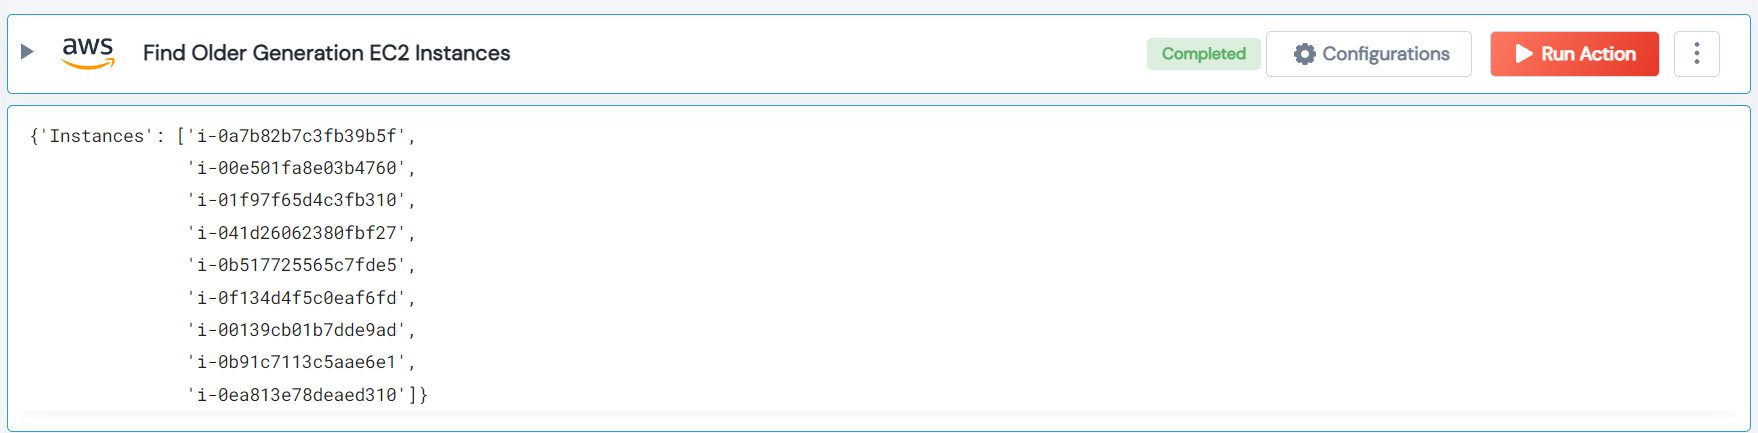
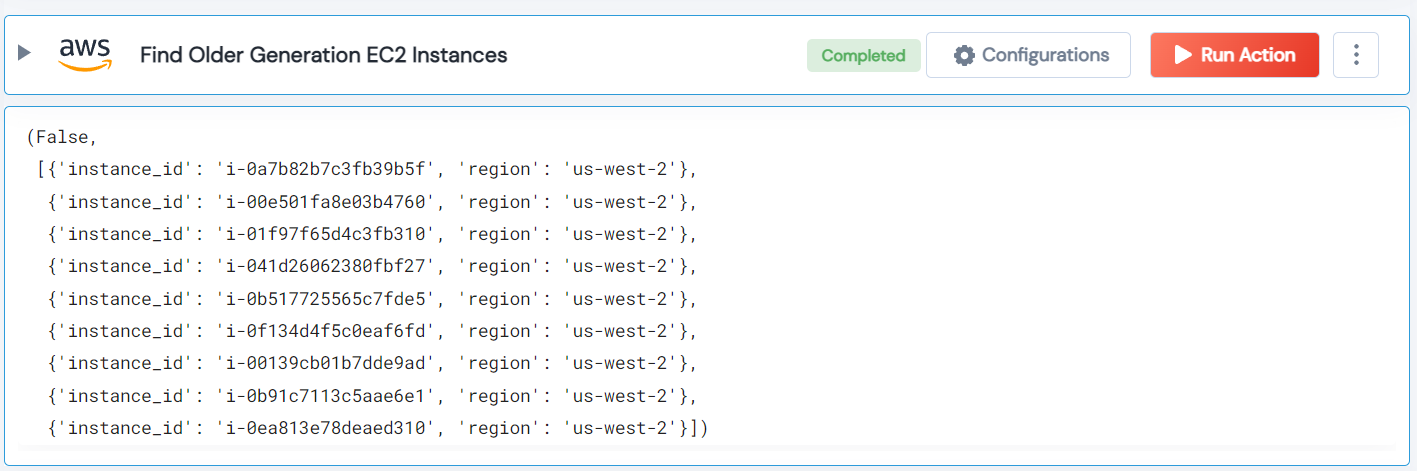
updated action

diff --git a/AWS/legos/aws_find_older_generation_ec2_instances/aws_find_older_generation_ec2_instances.py b/AWS/legos/aws_find_older_generation_ec2_instances/aws_find_older_generation_ec2_instances.py
@@ -19,7 +19,7 @@ class InputSchema(BaseModel):
 def aws_find_older_generation_ec2_instances_printer(output):
     if output is None:
         return
-    pprint.pprint({"Instances": output})
+    pprint.pprint(output)
 
 
 def aws_find_older_generation_ec2_instances(handle, region: str = "") -> Tuple:
